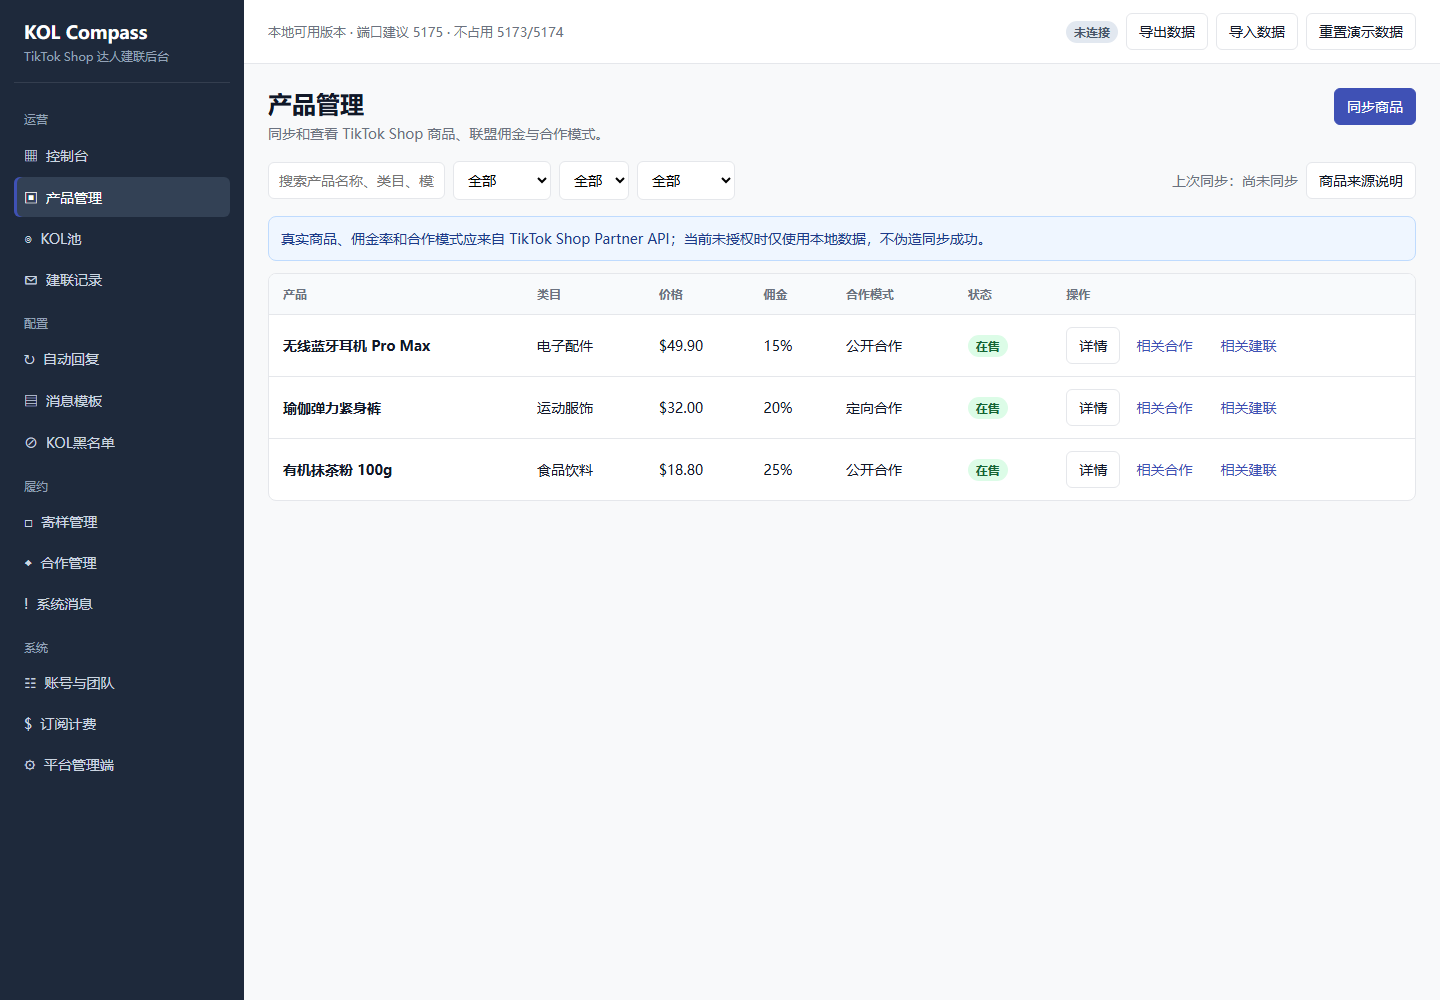
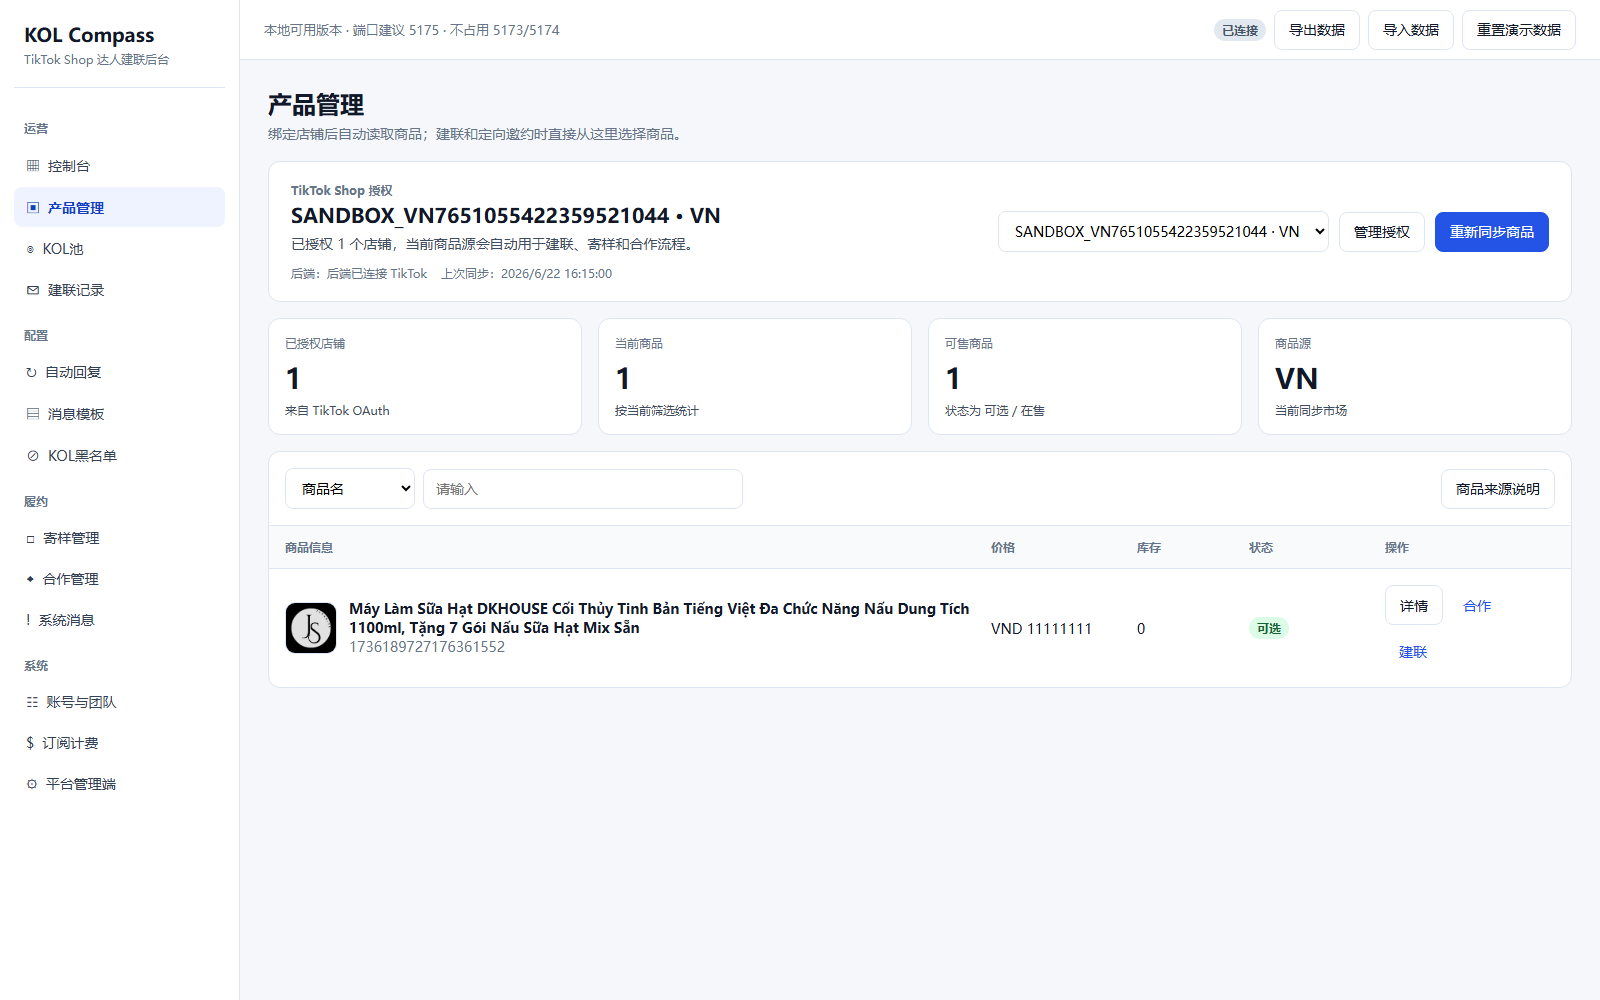
Clean product sync UI and normalize TikTok product data

diff --git a/app.js b/app.js
@@ -42,9 +42,7 @@ const seed = {
   bulkCreatorIds: [],
   filters: {
     productSearch: "",
-    productCategory: "全部",
-    productStatus: "全部",
-    productMode: "全部",
+    productSearchField: "商品名",
     kolSearch: "",
     kolType: "全部",
     kolCategory: "全部",
@@ -432,6 +430,8 @@ function badge(text) {
     "已签收": "success",
     "待发货": "warning",
     "在售": "success",
+    "可选": "success",
+    "不可选": "warning",
     "已下架": "neutral",
     "启用": "success",
     "黑名单": "danger",
@@ -616,22 +616,17 @@ function renderDashboard() {
 }
 
 function renderProducts() {
-  const categories = Array.from(new Set(state.products.map((p) => p.category).filter(Boolean)));
-  const statuses = Array.from(new Set(state.products.map((p) => p.status).filter(Boolean)));
-  const modes = Array.from(new Set(state.products.map((p) => p.mode).filter(Boolean)));
   const shops = state.settings.tiktokShops || [];
   const selectedShop = shops.find((shop) => shopCipher(shop) === state.settings.selectedTikTokShopCipher) || shops[0];
   const rows = state.products.filter((p) => {
     const kw = state.filters.productSearch.trim().toLowerCase();
-    const kwOk = !kw || [p.name, p.category, p.mode, p.status].join(" ").toLowerCase().includes(kw);
-    const categoryOk = state.filters.productCategory === "全部" || p.category === state.filters.productCategory;
-    const statusOk = state.filters.productStatus === "全部" || p.status === state.filters.productStatus;
-    const modeOk = state.filters.productMode === "全部" || p.mode === state.filters.productMode;
-    return kwOk && categoryOk && statusOk && modeOk;
+    if (!kw) return true;
+    if (state.filters.productSearchField === "商品ID") return String(p.sourceId || p.id || "").toLowerCase().includes(kw);
+    return String(p.name || "").toLowerCase().includes(kw);
   });
-  const activeCount = rows.filter((p) => String(p.status).toUpperCase() === "ACTIVATE" || p.status === "在售").length;
+  const activeCount = rows.filter((p) => ["可选", "在售"].includes(p.status)).length;
   return `
-    ${pageHead("产品管理", "绑定店铺后自动读取商品；建联和定向邀约时直接从这里选择商品。", `<button class="btn primary" onclick="syncProducts()">重新同步商品</button> <button class="btn" onclick="checkTikTokShops()">刷新店铺授权</button>`)}
+    ${pageHead("产品管理", "绑定店铺后自动读取商品；建联和定向邀约时直接从这里选择商品。")}
     <section class="store-panel">
       <div>
         <div class="section-kicker">TikTok Shop 授权</div>
@@ -652,28 +647,22 @@ function renderProducts() {
           </select>
         ` : ""}
         <button class="btn" onclick="setPage('admin')">管理授权</button>
-        <button class="btn primary" onclick="syncProducts()">同步商品</button>
+        <button class="btn primary" onclick="syncProducts()">重新同步商品</button>
       </div>
     </section>
     <div class="grid grid-4" style="margin-bottom:16px">
       ${stat("已授权店铺", shops.length, "来自 TikTok OAuth")}
       ${stat("当前商品", rows.length, "按当前筛选统计")}
-      ${stat("可售商品", activeCount, "状态为 ACTIVATE / 在售")}
+      ${stat("可售商品", activeCount, "状态为 可选 / 在售")}
       ${stat("商品源", selectedShop ? shopRegion(selectedShop) : "-", "当前同步市场")}
     </div>
     <div class="surface-panel">
     <div class="toolbar compact-toolbar">
       <div class="filters">
-        <input class="input" placeholder="搜索产品名称、类目、模式..." value="${escapeHtml(state.filters.productSearch)}" oninput="setFilter('productSearch', this.value)" />
-        <select class="select" onchange="setFilter('productCategory', this.value)">
-          ${["全部", ...categories].map((x) => `<option ${state.filters.productCategory === x ? "selected" : ""}>${escapeHtml(x)}</option>`).join("")}
+        <select class="select compact-select" onchange="setFilter('productSearchField', this.value)">
+          ${["商品名", "商品ID"].map((x) => `<option ${state.filters.productSearchField === x ? "selected" : ""}>${escapeHtml(x)}</option>`).join("")}
         </select>
-        <select class="select" onchange="setFilter('productStatus', this.value)">
-          ${["全部", ...statuses].map((x) => `<option ${state.filters.productStatus === x ? "selected" : ""}>${escapeHtml(x)}</option>`).join("")}
-        </select>
-        <select class="select" onchange="setFilter('productMode', this.value)">
-          ${["全部", ...modes].map((x) => `<option ${state.filters.productMode === x ? "selected" : ""}>${escapeHtml(x)}</option>`).join("")}
-        </select>
+        <input class="input product-search-input" placeholder="请输入" value="${escapeHtml(state.filters.productSearch)}" oninput="setFilter('productSearch', this.value)" />
       </div>
       <div class="filters">
         <button class="btn" onclick="addProduct()">商品来源说明</button>
@@ -1377,7 +1366,7 @@ function productList(rows) {
       <div class="object-head">
         <span>商品信息</span>
         <span>价格</span>
-        <span>佣金</span>
+        <span>库存</span>
         <span>状态</span>
         <span>操作</span>
       </div>
@@ -1385,17 +1374,13 @@ function productList(rows) {
         <div class="object-row">
           <div class="product-main">
             <div class="product-thumb">${productThumb(p)}</div>
-            <div>
-              <b>${escapeHtml(p.name)}</b>
+            <div class="product-info">
+              <b class="product-title">${escapeHtml(p.name)}</b>
               <div class="muted">${escapeHtml(p.sourceId || p.category || "-")}</div>
-              <div class="product-tags">
-                <span>${escapeHtml(p.category || "TikTok Shop")}</span>
-                <span>${escapeHtml(p.mode || "店铺商品")}</span>
-              </div>
             </div>
           </div>
           <div>${escapeHtml(p.price || "-")}</div>
-          <div>${escapeHtml(p.commission || "-")}</div>
+          <div>${Number.isFinite(Number(p.stock)) ? Number(p.stock) : "-"}</div>
           <div>${badge(p.status || "已同步")}</div>
           <div class="row-actions">
             <button class="btn" onclick="openProductModal(${p.id})">详情</button>

diff --git a/smoke-test.js b/smoke-test.js
@@ -72,7 +72,7 @@ async function main() {
   assert("refined visual layout classes supported", ["detail-shell", "creator-portrait", "chat-frame", "coop-detail-grid", "content-card-grid", "stage-list"].every((text) => app.includes(text) || read("app.css").includes(text)));
   assert("cooperation search and output filters supported", ["coopSearch", "coopOutput"].every((name) => app.includes(name)) && app.includes("搜索达人、产品、负责人、备注"));
   assert("cooperation sales review summary supported", ["visibleGmv", "visibleOrders", "visibleSpend", "visibleRoi"].every((name) => app.includes(name)) && ["当前视图GMV", "当前订单", "佣金+投流", "当前ROI"].every((text) => app.includes(text)));
-  assert("product filters supported", ["productSearch", "productCategory", "productStatus", "productMode", "productList"].every((name) => app.includes(name)) && app.includes("绑定店铺后自动读取商品"));
+  assert("product search is limited to TikTok-style name/id filters", ["productSearch", "productSearchField", "商品名", "商品ID", "productList"].every((name) => app.includes(name)) && !["productCategory", "productStatus", "productMode"].some((name) => app.includes(name)) && app.includes("绑定店铺后自动读取商品"));
   assert("product detail is read-only with business drilldowns", ["openProductModal", "productUsage", "goProductCoops", "goProductOutreach"].every((name) => app.includes(`function ${name}`)) && app.includes("当前只读展示，不支持本地手动新增或改写真实商品源"));
   assert("product detail keeps performance metrics in cooperations", app.includes("视频、直播、GMV、订单、佣金支出和 ROI 仍只在合作管理查看"));
   assert("cooperation has content tracking status filters", app.includes("逾期未产出") && app.includes("有订单未匹配内容"));
@@ -98,7 +98,8 @@ async function main() {
   assert("local data import/export supported", app.includes("function exportState") && app.includes("function importState"));
   assert("hash routes supported", app.includes("routeFromHash") && app.includes("kol/creator/"));
   assert("TikTok API handoff exists", fs.existsSync("docs/TIKTOK_API_HANDOFF.md"));
-  assert("TikTok API backend exists", ["generateSign", "/api/tiktok/auth-url", "/api/tiktok/callback", "/api/tiktok/shops", "/api/tiktok/products", "x-tts-access-token", "/authorization/202309/shops", "/product/202309/products/search"].every((text) => server.includes(text)));
+  assert("TikTok API backend exists", ["generateSign", "/api/tiktok/auth-url", "/api/tiktok/callback", "/api/tiktok/shops", "/api/tiktok/products", "x-tts-access-token", "/authorization/202309/shops", "/product/202309/products/search", "/product/202309/products/${productId}"].every((text) => server.includes(text)));
+  assert("TikTok product sync normalizes image and status fields", ["imageUrl", "main_images", "normalizeProductStatus", "rawStatus", "stock"].every((text) => server.includes(text)) && ["productThumb", "可选", "不可选"].every((text) => app.includes(text)));
   assert("TikTok creator search API wired", ["/api/tiktok/creators/search", "/affiliate_seller/202508/marketplace_creators/search", "normalizeCreators"].every((text) => server.includes(text)) && ["apiRequest(\"/api/tiktok/creators/search\"", "达人同步失败"].every((text) => app.includes(text)));
   assert("TikTok API backend keeps secrets out of frontend", server.includes("TIKTOK_SHOP_APP_SECRET") && read(".gitignore").includes(".env.local") && read(".gitignore").includes(".data/"));
   assert("TikTok Shop binding UI calls backend", ["API_BASE", "startTikTokAuth", "checkTikTokBackend", "checkTikTokShops", "apiRequest(\"/api/tiktok/products\""].every((text) => app.includes(text)));

diff --git a/server.js b/server.js
@@ -257,7 +257,28 @@ async function searchProducts(shopCipher, pageSize = 20, pageToken = "") {
   const params = { shop_cipher: shopCipher, page_size: Math.min(Number(pageSize) || 20, 100) };
   if (pageToken) params.page_token = pageToken;
   const body = { status: "ALL" };
-  return tiktokFetch("/product/202309/products/search", { method: "POST", params, body });
+  const upstream = await tiktokFetch("/product/202309/products/search", { method: "POST", params, body });
+  return enrichProductSearch(upstream, shopCipher);
+}
+
+async function getProduct(shopCipher, productId) {
+  return tiktokFetch(`/product/202309/products/${productId}`, { params: { shop_cipher: shopCipher } });
+}
+
+async function enrichProductSearch(upstream, shopCipher) {
+  const products = upstream.data?.products || [];
+  const detailed = await Promise.all(products.map(async (item) => {
+    const productId = item.id || item.product_id;
+    if (!productId) return item;
+    try {
+      const detail = await getProduct(shopCipher, productId);
+      const detailProduct = detail.data?.product || detail.data || {};
+      return { ...item, ...detailProduct, id: item.id || detailProduct.id || detailProduct.product_id };
+    } catch {
+      return item;
+    }
+  }));
+  return { ...upstream, data: { ...(upstream.data || {}), products: detailed } };
 }
 
 async function searchCreators(shopCipher, keyword = "", pageSize = 12, pageToken = "") {
@@ -285,7 +306,10 @@ function normalizeProducts(upstream) {
     const currency = item.price?.currency || skuPrice.currency || "";
     const price = priceValue && currency ? `${currency} ${priceValue}` : priceValue;
     const category = item.category_chains?.[0]?.local_name || item.category_name || item.category?.name || "TikTok Shop";
-    const imageUrl = item.main_images?.[0]?.urls?.[0] || item.main_images?.[0]?.url || item.images?.[0]?.url || item.cover_image?.url || "";
+    const imageUrl = item.main_images?.[0]?.urls?.[0] || item.main_images?.[0]?.url || item.images?.[0]?.urls?.[0] || item.images?.[0]?.url || item.product_images?.[0]?.urls?.[0] || item.cover_image?.url || "";
+    const rawStatus = item.status || item.audit_status || "SYNCED";
+    const normalizedStatus = normalizeProductStatus(rawStatus);
+    const stock = (item.skus || []).flatMap((sku) => sku.inventory || []).reduce((sum, row) => sum + (Number(row.quantity) || 0), 0);
     return {
       id: Number(String(item.id || item.product_id || Date.now() + index).replace(/\D/g, "").slice(-9)) || Date.now() + index,
       sourceId: item.id || item.product_id || "",
@@ -294,11 +318,20 @@ function normalizeProducts(upstream) {
       price: price ? String(price) : "-",
       commission: item.commission?.rate || item.open_collaboration?.commission_rate || "-",
       mode: item.open_collaboration ? "公开合作" : "店铺商品",
-      status: item.status || item.audit_status || "已同步",
+      status: normalizedStatus,
+      rawStatus,
+      stock,
       imageUrl,
       salesRegions: item.sales_regions || [],
     };
   });
+}
+
+function normalizeProductStatus(status) {
+  const normalized = String(status || "").toUpperCase();
+  if (["ACTIVATE", "ACTIVE", "ONLINE", "SELLING", "LIVE"].includes(normalized)) return "可选";
+  if (["DRAFT", "DEACTIVATED", "SUSPENDED", "FREEZE", "FROZEN", "DELETED", "FAILED"].includes(normalized)) return "不可选";
+  return status || "已同步";
 }
 
 function normalizeCreators(upstream) {

diff --git a/app.css b/app.css
@@ -357,6 +357,14 @@ button {
   border-bottom: 1px solid var(--border);
 }
 
+.compact-select {
+  min-width: 130px;
+}
+
+.product-search-input {
+  min-width: 320px;
+}
+
 .object-list {
   display: grid;
 }
@@ -364,7 +372,7 @@ button {
 .object-head,
 .object-row {
   display: grid;
-  grid-template-columns: minmax(360px, 1fr) 120px 100px 120px 180px;
+  grid-template-columns: minmax(420px, 1fr) 130px 96px 120px 170px;
   gap: 16px;
   align-items: center;
 }
@@ -390,10 +398,24 @@ button {
   min-width: 0;
 }
 
+.product-info {
+  min-width: 0;
+}
+
 .product-main b,
 .product-pick b {
   display: block;
   line-height: 1.35;
+}
+
+.product-title {
+  max-width: 720px;
+  display: -webkit-box !important;
+  -webkit-line-clamp: 2;
+  -webkit-box-orient: vertical;
+  overflow: hidden;
+  word-break: break-word;
+  overflow-wrap: anywhere;
 }
 
 .product-thumb {
@@ -437,6 +459,12 @@ button {
   display: flex;
   gap: 6px;
   flex-wrap: wrap;
+}
+
+.product-object-list .object-row > div:nth-child(2),
+.product-object-list .object-row > div:nth-child(3),
+.product-object-list .object-row > div:nth-child(4) {
+  white-space: nowrap;
 }
 
 .panel-empty {

diff --git a/docs/CLAUDE_CONTINUE.md b/docs/CLAUDE_CONTINUE.md
@@ -38,7 +38,7 @@ TikTok Shop API 后端使用：
 - `start-full.bat`
 - `smoke-test.js`
 
-最近一次连续推进检查：2026-06-22 15:30 CST，当前分支已连接 GitHub 远端；TikTok Shop sandbox OAuth 已跑通，已读取授权店铺 `SANDBOX_VN7651055422359521044` 并同步 1 个商品。已接入达人搜索接口 `/api/tiktok/creators/search`，对应 TikTok Open API `/affiliate_seller/202508/marketplace_creators/search`；当前 sandbox 实测返回 `36009002 Too many requests for downstream`，属于 TikTok 下游限流，前端会展示真实错误，不伪造达人同步成功。`node --check app.js`、`node --check server.js`、`node smoke-test.js`、`git diff --check` 已通过。
+最近一次连续推进检查：2026-06-22 16:30 CST，当前分支已连接 GitHub 远端；TikTok Shop sandbox OAuth 已跑通，已读取授权店铺 `SANDBOX_VN7651055422359521044` 并同步 1 个商品。产品同步已补充商品详情读取，实测可返回真实 `imageUrl`，`rawStatus=ACTIVATE` 会在前端归一显示为 `可选`。产品管理页按参考后台收敛为“商品名 / 商品ID”两个检索条件，不再保留类目、状态、合作模式三组筛选。达人搜索接口 `/api/tiktok/creators/search` 已接入；当前 sandbox 实测返回 `36009002 Too many requests for downstream`，属于 TikTok 下游限流，前端会展示真实错误，不伪造达人同步成功。`node --check app.js`、`node --check server.js`、`node smoke-test.js`、`git diff --check` 已通过，`smoke-products.png` 已按真实商品数据重截。
 
 启动：
 
@@ -97,8 +97,8 @@ P0：
    - 关键指标可下钻到建联记录、寄样管理、合作管理、系统消息和平台管理端
    - 内容状态分布和负责人概览可直接筛选
 3. 保持产品管理可用：
-   - 支持关键词搜索
-   - 支持类目、状态、合作模式筛选
+   - 支持商品名 / 商品ID 两种检索，不增加非必要筛选
+   - 商品图片、价格、库存和原始状态必须来自 TikTok Shop API；状态在列表中归一为 `可选` / `不可选`
    - 支持只读商品详情，显示商品源、价格、佣金、合作模式和使用位置
    - 支持从商品下钻相关建联和相关合作
    - 未授权 TikTok Partner API 时只展示本地数据和明确提示，不伪造同步成功

diff --git a/docs/PROJECT_MEMORY.md b/docs/PROJECT_MEMORY.md
@@ -1,6 +1,6 @@
 # KOL Compass 项目记忆
 
-更新时间：2026-06-22 15:30 CST
+更新时间：2026-06-22 16:30 CST
 
 ## 当前工作目录
 
@@ -54,6 +54,7 @@ node smoke-test.js
 
 ## 本轮已确认
 
+- 2026-06-22 16:30 CST：产品页已按真实 TikTok 商品数据重验收。`node --check app.js`、`node --check server.js`、`node smoke-test.js`、`git diff --check` 已通过；`smoke-products.png` 已更新，截图中商品图片来自 TikTok 返回的 `imageUrl`，状态显示为 `可选`，搜索只保留“商品名 / 商品ID”。
 - `node --check app.js` 通过。
 - `node smoke-test.js` 全部通过。
 - 控制台截图 `smoke-dashboard.png` 已重新生成并目视检查通过，时间范围筛选、负责人筛选、指标下钻、内容状态分布和负责人概览可见。
@@ -80,7 +81,8 @@ node smoke-test.js
 - 控制台关键指标可下钻到建联记录、寄样管理、合作管理、系统消息和平台管理端；合作状态分布和负责人概览可直接筛选。
 - KOL 详情页不展示内容产出、视频、直播、GMV、订单、佣金、ROI。
 - 内容追踪只放在合作管理。
-- 产品管理已支持按产品关键词、类目、状态、合作模式筛选，并明确提示真实数据来自 TikTok Shop Partner API。
+- 产品管理已按参考后台收敛为“商品名 / 商品ID”两个检索条件，不再保留类目、状态、合作模式三组非必要筛选；商品图片、价格、库存和原始状态来自 TikTok Shop API。
+- TikTok 商品同步已补充商品详情读取，实测 sandbox 商品返回真实 `imageUrl`；`rawStatus=ACTIVATE` 会在前端列表归一显示为 `可选`，避免直接暴露英文技术状态影响判断。
 - 产品管理已支持只读商品详情，显示商品源、价格、佣金、合作模式、状态、相关建联/寄样/合作数量，并可下钻到相关建联和相关合作；不允许本地新增或改写真实商品源。
 - 产品详情不展示视频、直播、GMV、订单、佣金支出和 ROI，这些履约指标仍只放在合作管理。
 - KOL 池已支持按关键词、达人类型、类目、地区、粉丝量级、回复率区间筛选，并展示当前筛选、可建联达人、暂不可建联、已选择状态总览。
